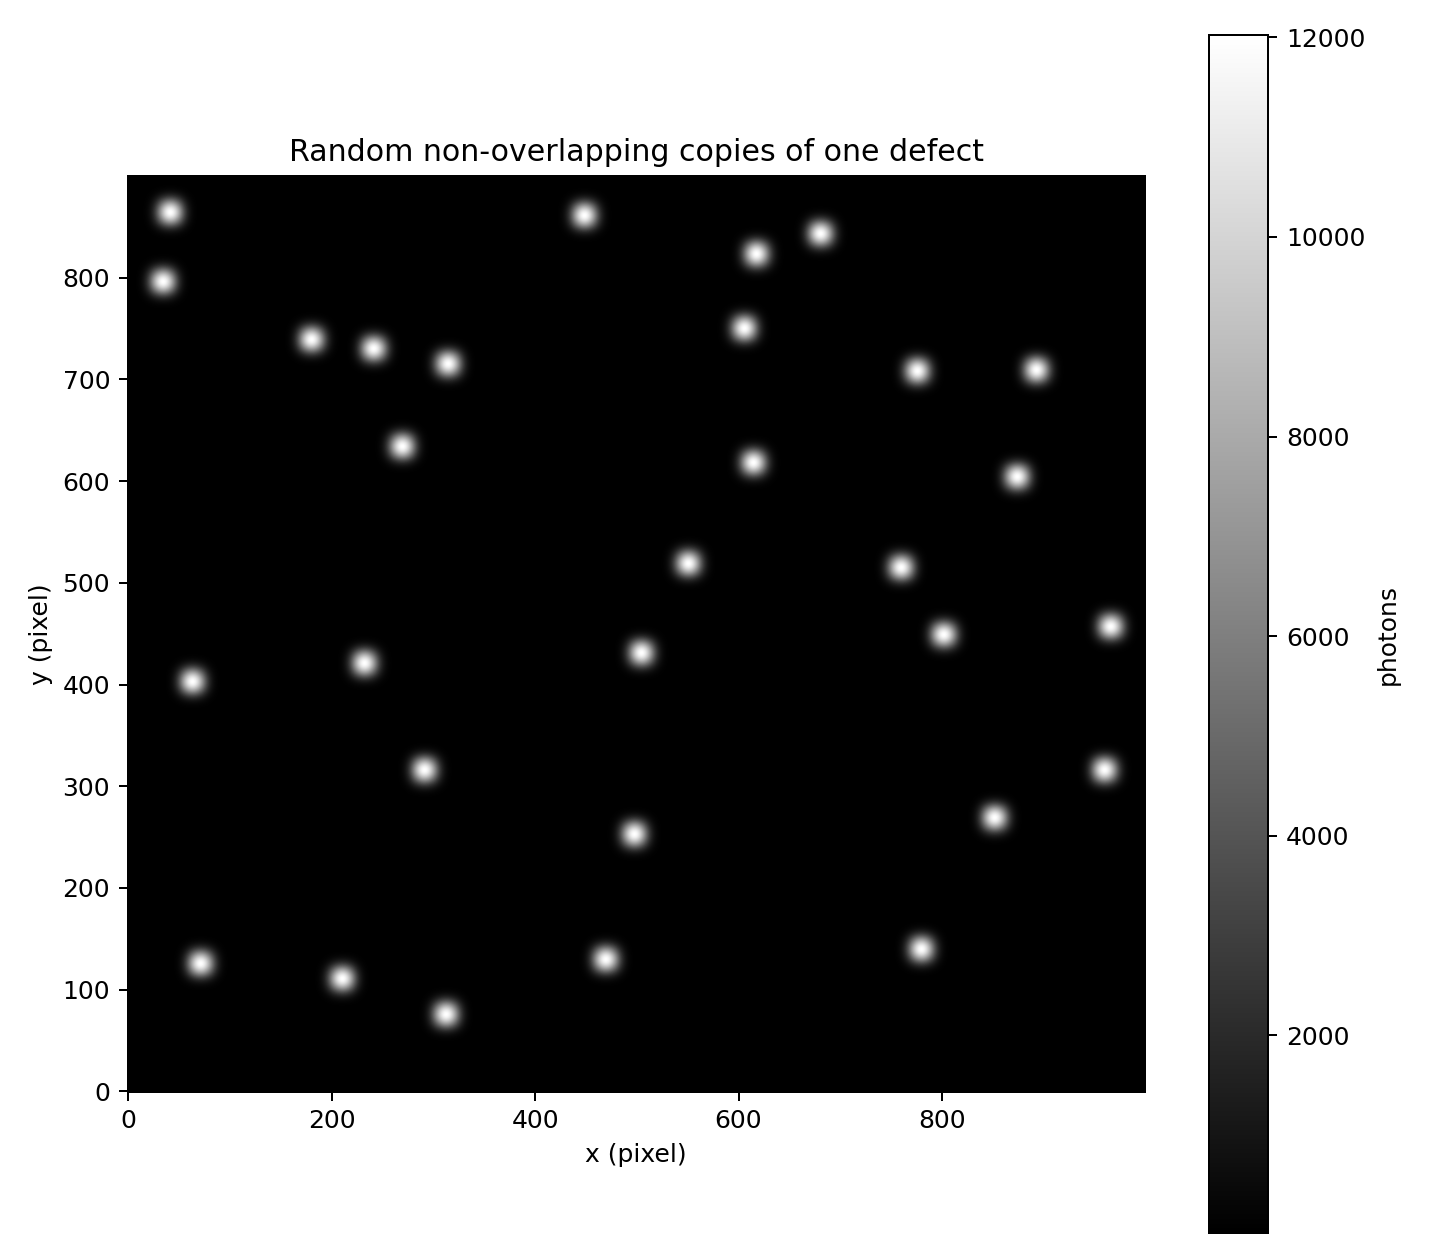
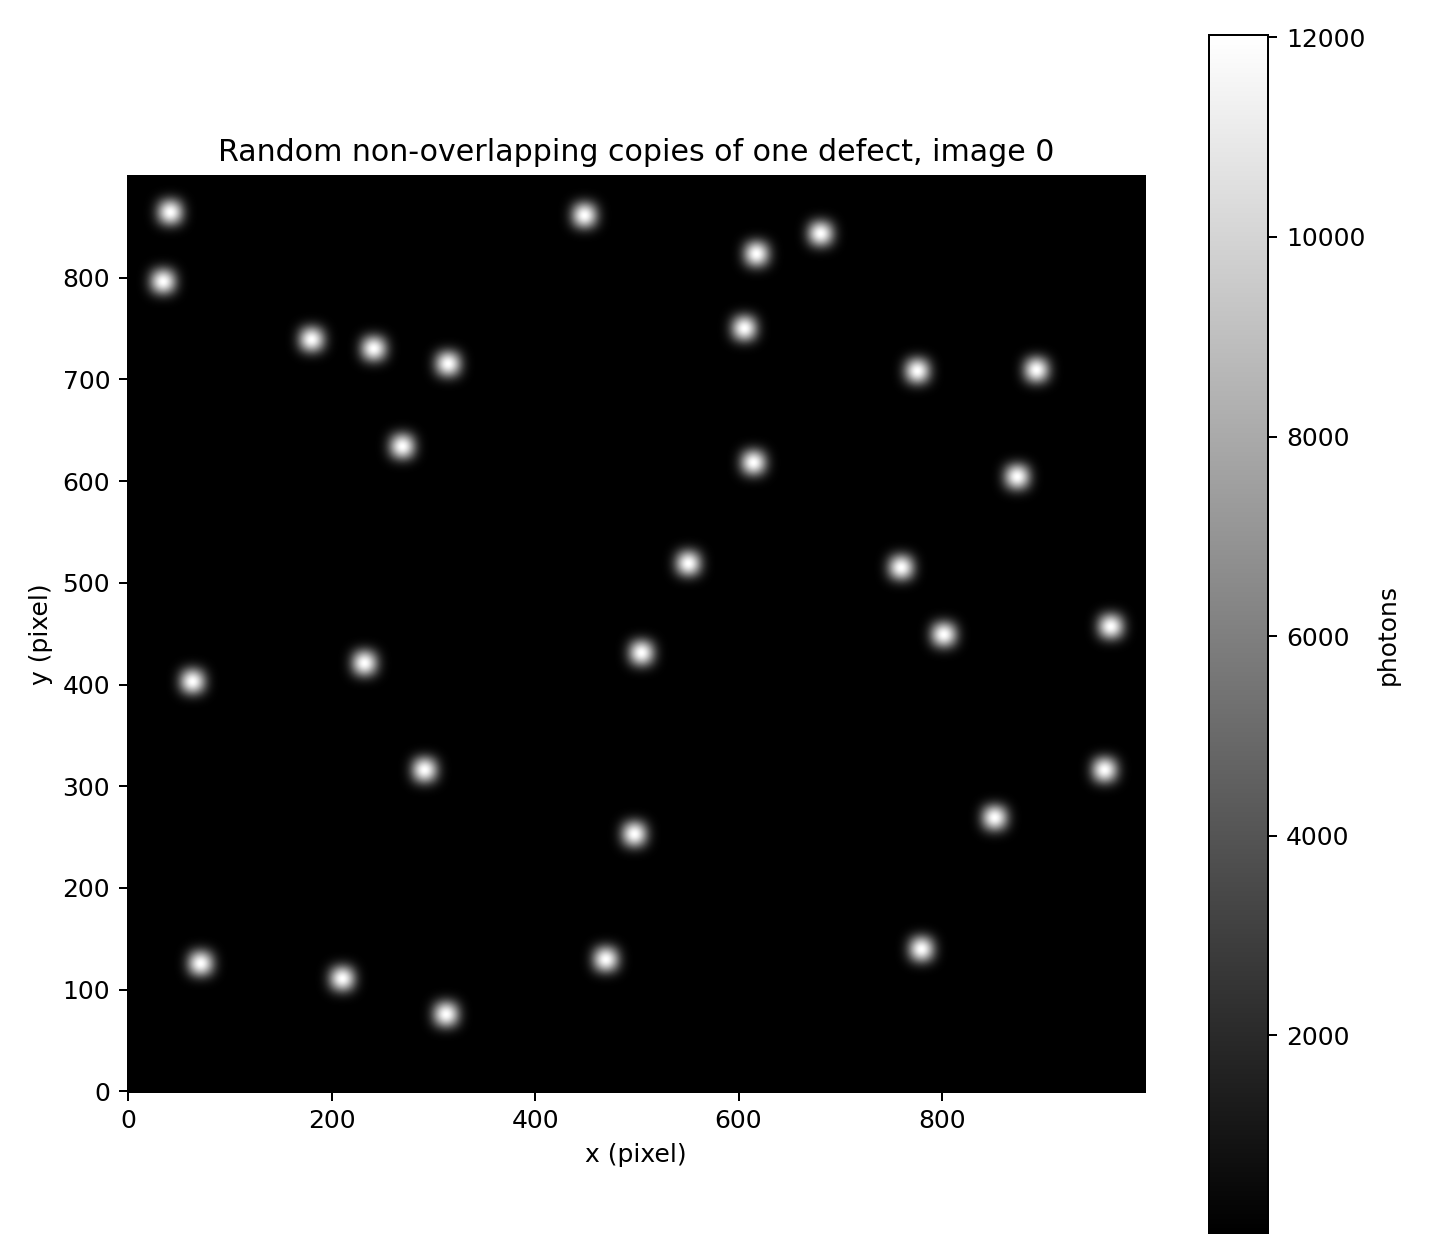
Return random picture batches

Changed region(s): [[0.1562, 0.0929, 0.7188, 0.1548]]

diff --git a/src/fourier_optics/buildimage.py b/src/fourier_optics/buildimage.py
@@ -52,11 +52,14 @@ class PadingDefectsMatrix:
         self,
         def_val: ArrayLike,
         n_def_copy: int,
+        n_imgs: int = 1,
         rng_seed: Optional[int] = None,
         max_attempts: int = 100_000,
-    ) -> tuple[FloatArray, list[Shape]]:
+    ) -> tuple[list[FloatArray], list[list[Shape]]]:
         if n_def_copy < 0:
             raise ValueError("n_def_copy must be non-negative")
+        if n_imgs <= 0:
+            raise ValueError("n_imgs must be positive")
         if max_attempts <= 0:
             raise ValueError("max_attempts must be positive")
 
@@ -67,27 +70,18 @@ class PadingDefectsMatrix:
             raise ValueError("def_val must fit inside image_shape")
 
         rng = np.random.default_rng(rng_seed)
-        image = np.full(self.image_shape, self.bg_photon_num, dtype=np.float64)
-        boxes: list[tuple[int, int, int, int]] = []
-        centers: list[Shape] = []
-        attempts = 0
-
-        while len(centers) < n_def_copy and attempts < max_attempts:
-            attempts += 1
-            row_start = int(rng.integers(0, image_rows - patch_rows + 1))
-            col_start = int(rng.integers(0, image_cols - patch_cols + 1))
-            box = (row_start, row_start + patch_rows, col_start, col_start + patch_cols)
-            if any(self._boxes_overlap(box, existing) for existing in boxes):
-                continue
-
-            center = (row_start + patch_rows // 2, col_start + patch_cols // 2)
-            self._paste_patch(image, patch, center)
-            boxes.append(box)
-            centers.append(center)
-
-        if len(centers) != n_def_copy:
-            raise RuntimeError("could not place all defects without overlap")
-        return image, centers
+        images: list[FloatArray] = []
+        coords_list: list[list[Shape]] = []
+        for _ in range(n_imgs):
+            image, centers = self._build_one_random_image(
+                patch=patch,
+                n_def_copy=n_def_copy,
+                rng=rng,
+                max_attempts=max_attempts,
+            )
+            images.append(image)
+            coords_list.append(centers)
+        return images, coords_list
 
     def _validate_shape(self, shape: Shape, name: str) -> Shape:
         if len(shape) != 2 or min(shape) <= 0:
@@ -153,6 +147,37 @@ class PadingDefectsMatrix:
             or first_col_end <= second_col_start
             or second_col_end <= first_col_start
         )
+
+    def _build_one_random_image(
+        self,
+        patch: FloatArray,
+        n_def_copy: int,
+        rng: np.random.Generator,
+        max_attempts: int,
+    ) -> tuple[FloatArray, list[Shape]]:
+        patch_rows, patch_cols = patch.shape
+        image_rows, image_cols = self.image_shape
+        image = np.full(self.image_shape, self.bg_photon_num, dtype=np.float64)
+        boxes: list[tuple[int, int, int, int]] = []
+        centers: list[Shape] = []
+        attempts = 0
+
+        while len(centers) < n_def_copy and attempts < max_attempts:
+            attempts += 1
+            row_start = int(rng.integers(0, image_rows - patch_rows + 1))
+            col_start = int(rng.integers(0, image_cols - patch_cols + 1))
+            box = (row_start, row_start + patch_rows, col_start, col_start + patch_cols)
+            if any(self._boxes_overlap(box, existing) for existing in boxes):
+                continue
+
+            center = (row_start + patch_rows // 2, col_start + patch_cols // 2)
+            self._paste_patch(image, patch, center)
+            boxes.append(box)
+            centers.append(center)
+
+        if len(centers) != n_def_copy:
+            raise RuntimeError("could not place all defects without overlap")
+        return image, centers
 
 
 def build_def_lib(
@@ -224,10 +249,11 @@ def build_random_picture(
     bg_photon_num: float,
     image_shape: Shape,
     n_def_copy: int,
+    n_imgs: int = 1,
     rng_seed: Optional[int] = None,
     max_attempts: int = 100_000,
-) -> tuple[FloatArray, list[Shape]]:
-    """Randomly place non-overlapping copies of one defect inside an image."""
+) -> tuple[list[FloatArray], list[list[Shape]]]:
+    """Randomly place non-overlapping copies of one defect inside images."""
 
     builder = PadingDefectsMatrix(
         defs_dict={"def1": def_val},
@@ -238,6 +264,7 @@ def build_random_picture(
     return builder.build_random(
         def_val=def_val,
         n_def_copy=n_def_copy,
+        n_imgs=n_imgs,
         rng_seed=rng_seed,
         max_attempts=max_attempts,
     )

diff --git a/tests/test_buildimage.py b/tests/test_buildimage.py
@@ -72,32 +72,39 @@ def test_build_picture_from_list_matches_dict_values() -> None:
 def test_build_random_picture_returns_non_overlapping_coordinates() -> None:
     defect = np.ones((9, 7)) * 10.0
 
-    image, coords = build_random_picture(
+    images, coords_list = build_random_picture(
         def_val=defect,
         bg_photon_num=1.0,
         image_shape=(80, 90),
         n_def_copy=8,
+        n_imgs=3,
         rng_seed=42,
     )
 
-    assert image.shape == (80, 90)
-    assert len(coords) == 8
-    assert coords == build_random_picture(defect, 1.0, (80, 90), 8, rng_seed=42)[1]
+    assert len(images) == 3
+    assert len(coords_list) == 3
+    assert coords_list == build_random_picture(defect, 1.0, (80, 90), 8, n_imgs=3, rng_seed=42)[1]
 
-    boxes = []
-    for row, col in coords:
-        row_start = row - defect.shape[0] // 2
-        col_start = col - defect.shape[1] // 2
-        box = (row_start, row_start + defect.shape[0], col_start, col_start + defect.shape[1])
-        assert box[0] >= 0
-        assert box[2] >= 0
-        assert box[1] <= image.shape[0]
-        assert box[3] <= image.shape[1]
-        assert all(
-            box[1] <= other[0] or other[1] <= box[0] or box[3] <= other[2] or other[3] <= box[2]
-            for other in boxes
-        )
-        boxes.append(box)
+    for image, coords in zip(images, coords_list):
+        assert image.shape == (80, 90)
+        assert len(coords) == 8
+        boxes = []
+        for row, col in coords:
+            row_start = row - defect.shape[0] // 2
+            col_start = col - defect.shape[1] // 2
+            box = (row_start, row_start + defect.shape[0], col_start, col_start + defect.shape[1])
+            assert box[0] >= 0
+            assert box[2] >= 0
+            assert box[1] <= image.shape[0]
+            assert box[3] <= image.shape[1]
+            assert all(
+                box[1] <= other[0]
+                or other[1] <= box[0]
+                or box[3] <= other[2]
+                or other[3] <= box[2]
+                for other in boxes
+            )
+            boxes.append(box)
 
 
 def test_build_def_lib_returns_shrinking_bright_defects() -> None:
